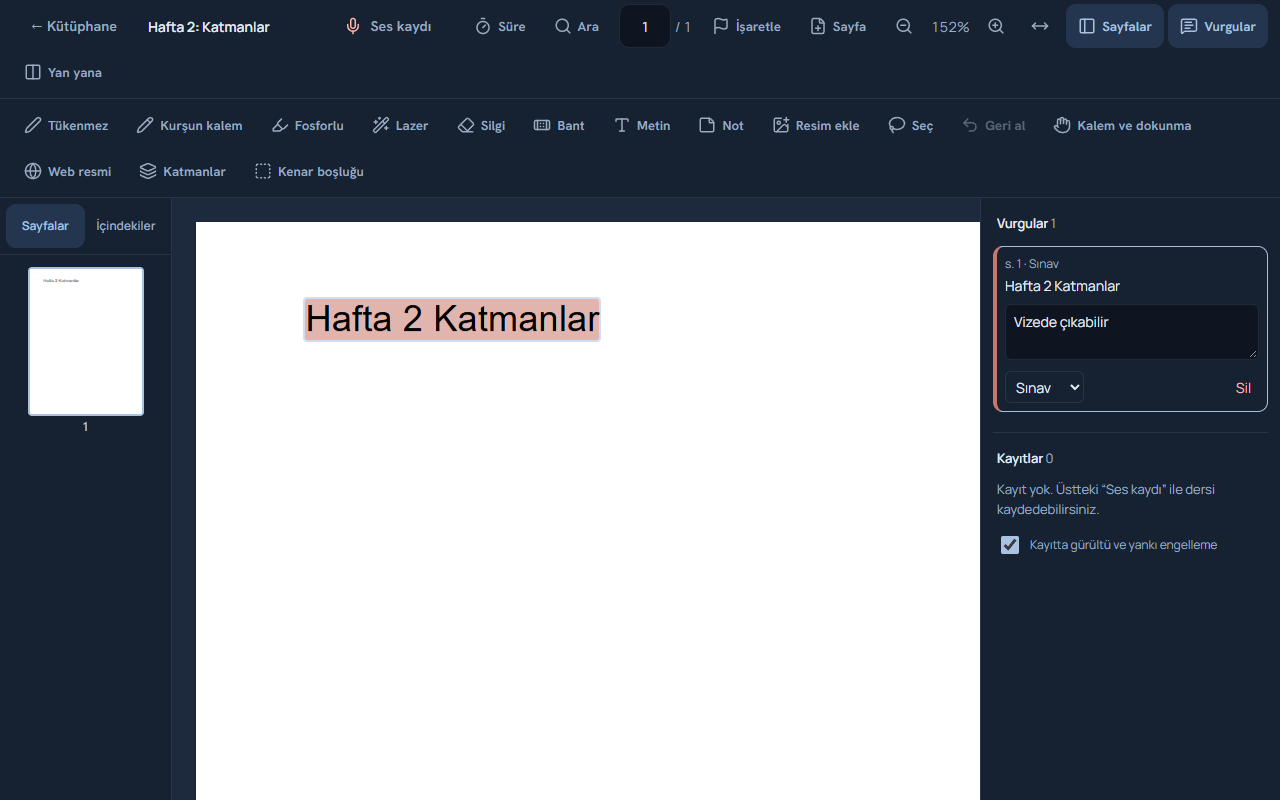
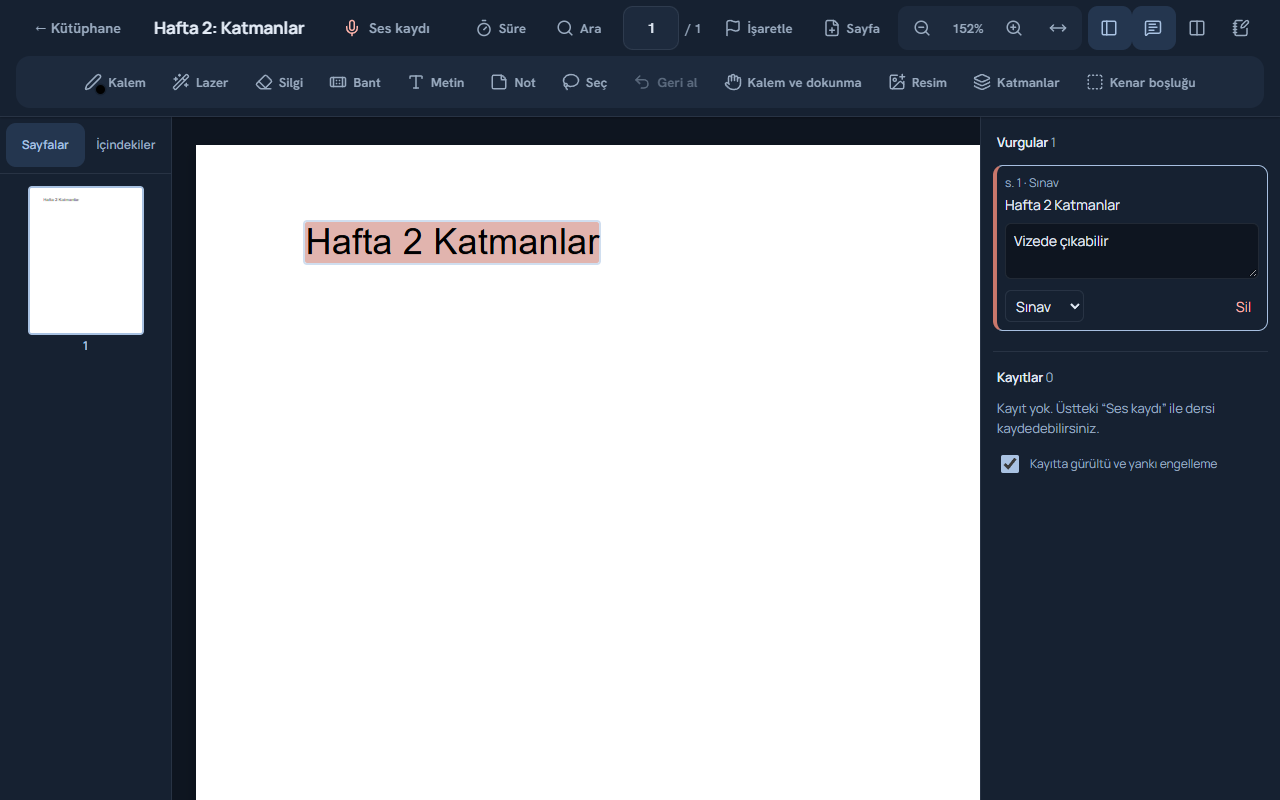
feat(ui): reader toolbar dock, notebook and timer panels in the new style; phone screenshots

diff --git a/src/ui/views/ReaderView.svelte b/src/ui/views/ReaderView.svelte
@@ -370,12 +370,13 @@
         <ToolButton label="Önemli sayfalar ({importantCount})" title="Yalnız önemli sayfalar, küçük bir PDF olarak" pressed={showImportant}
           onclick={() => (showImportant = !showImportant)}><Star size={18} /></ToolButton>
       {/if}
-      <div class="group">
+      <div class="group seg">
         <IconButton label="Uzaklaştır" onclick={() => (scale = zoomOut(scale))}><ZoomOut size={18} /></IconButton>
         <span class="zoom">{Math.round(scale * 100)}%</span>
         <IconButton label="Yakınlaştır" onclick={() => (scale = zoomIn(scale))}><ZoomIn size={18} /></IconButton>
         <IconButton label="Genişliğe sığdır" onclick={fitWidth}><MoveHorizontal size={18} /></IconButton>
       </div>
+      <div class="group panes">
       <ToolButton label="Sayfalar" title="Sayfalar ve içindekiler" pressed={showNav} onclick={() => (showNav = !showNav)}>
         <PanelLeft size={18} />
       </ToolButton>
@@ -387,6 +388,7 @@
         <ToolButton label="Defter" title="PDF'in yanında defter aç" pressed={notebookOpen} onclick={() => (notebookOpen = !notebookOpen)}>
           <NotebookPen size={18} /></ToolButton>
       {/if}
+      </div>
     </div>
     <div class="row tools" role="toolbar" aria-label="Kalem araçları">
       <PenMenu {reader} />
@@ -521,27 +523,39 @@
 
 <style>
   .reader { display: flex; flex-direction: column; height: 100%; }
-  .toolbar { display: flex; flex-direction: column; border-bottom: 1px solid var(--border); background: var(--surface); }
-  .row { display: flex; align-items: center; flex-wrap: wrap; gap: 2px 4px; padding: 4px 12px; }
+  .toolbar { display: flex; flex-direction: column; border-bottom: 1px solid var(--border); background: var(--surface); box-shadow: var(--shadow-1); position: relative; z-index: 2; }
+  .row { display: flex; align-items: center; flex-wrap: wrap; gap: 4px 6px; padding: 6px 16px; }
   .row + .row { border-top: 1px solid var(--border); }
-  h1 { flex: 1 1 120px; min-width: 80px; margin: 0 8px; font-size: 14px; font-weight: 600; overflow: hidden; text-overflow: ellipsis; white-space: nowrap; }
+  .row.tools {
+    border-top: 0; margin: 0 16px 8px; padding: 4px 6px; gap: 2px; background: var(--surface-2); border-radius: var(--radius);
+    justify-content: center;
+  }
+  h1 {
+    flex: 1 1 120px; min-width: 80px; margin: 0 8px; font-size: 17px; line-height: 24px; font-weight: 700; letter-spacing: -0.01em;
+    overflow: hidden; text-overflow: ellipsis; white-space: nowrap;
+  }
   .group { display: flex; align-items: center; }
-  .zoom { color: var(--text-2); font-variant-numeric: tabular-nums; min-width: 48px; text-align: center; }
+  .seg { padding: 0 2px; border-radius: var(--radius-sm); background: var(--surface-2); }
+  /* Pane toggles show icons only until there is room for their labels (names stay for screen readers). */
+  @media (max-width: 1599px) {
+    .panes :global(.tool > span) { position: absolute; width: 1px; height: 1px; overflow: hidden; clip-path: inset(50%); white-space: nowrap; }
+  }
+  .zoom { color: var(--text-2); font: 600 13px/1 var(--font-label); font-variant-numeric: tabular-nums; min-width: 48px; text-align: center; }
   .sr { position: absolute; width: 1px; height: 1px; overflow: hidden; clip-path: inset(50%); white-space: nowrap; }
-  .page-box { display: flex; align-items: center; gap: 4px; color: var(--text-2); font-variant-numeric: tabular-nums; margin: 0 4px; }
+  .page-box { display: flex; align-items: center; gap: 6px; color: var(--text-2); font: 600 13px/1 var(--font-label); font-variant-numeric: tabular-nums; margin: 0 4px; }
   .page-input {
-    width: 52px; height: var(--hit); text-align: center; font: inherit; color: var(--text); background: var(--bg);
+    width: 56px; height: var(--hit); text-align: center; font: 600 14px/1 var(--font-label); color: var(--text); background: var(--surface-2);
     border: 1px solid var(--border); border-radius: var(--radius-sm);
   }
   .sep { width: 1px; height: 24px; background: var(--border); margin: 0 6px; }
   .search input {
-    flex: 1 1 200px; max-width: 420px; height: var(--hit); padding: 0 10px; font: inherit; color: var(--text); background: var(--bg);
+    flex: 1 1 200px; max-width: 420px; height: var(--hit); padding: 0 12px; font: inherit; color: var(--text); background: var(--surface-2);
     border: 1px solid var(--border); border-radius: var(--radius-sm);
   }
   .count { min-width: 80px; color: var(--text-2); font-size: 13px; font-variant-numeric: tabular-nums; }
   .notice { color: var(--danger); font-size: 13px; }
   .body { flex: 1; display: flex; min-height: 0; position: relative; }
-  .scroller { flex: 1; overflow: auto; padding: 24px; background: var(--surface-2); touch-action: pan-x pan-y; }
+  .scroller { flex: 1; overflow: auto; padding: 28px 24px; background: var(--bg); touch-action: pan-x pan-y; }
   .msg { color: var(--text-2); text-align: center; margin-top: 40px; }
   .blanks { font-size: 12px; }
   .drop-blank {
@@ -555,7 +569,7 @@
   .slot.side :global(.page) { margin: 0 0 16px; }
   .picker {
     position: fixed; transform: translateX(-50%); z-index: 20; display: flex; gap: 2px; padding: 4px;
-    background: var(--surface); border: 1px solid var(--border); border-radius: var(--radius); box-shadow: 0 8px 28px rgb(0 0 0 / 0.16);
+    background: var(--surface); border: 1px solid var(--border); border-radius: var(--radius); box-shadow: var(--shadow-3);
   }
   .picker button {
     min-height: var(--hit); padding: 0 10px; border: 0; border-radius: var(--radius-sm); background: transparent; cursor: pointer;
@@ -563,7 +577,7 @@
   }
   .picker button:hover { background: var(--surface-2); }
   .chip { width: 12px; height: 12px; border-radius: 50%; }
-  @media (max-width: 1023px) { .row { padding: 4px 8px; } }
+  @media (max-width: 1023px) { .row { padding: 4px 8px; } .row.tools { margin: 0 8px 6px; } }
   /* Tablet portrait: tool labels are read out but not shown, so the tool row stays on one or two lines. */
   @media (max-width: 900px) {
     .tools > :global(.tool > span), .tools > :global(.menu > .tool > span) { position: absolute; width: 1px; height: 1px; overflow: hidden; clip-path: inset(50%); white-space: nowrap; }

diff --git a/src/ui/views/TimerButton.svelte b/src/ui/views/TimerButton.svelte
@@ -77,34 +77,35 @@
   .timer { position: relative; flex: none; }
   .timer :global(.tool span) { font-variant-numeric: tabular-nums; }
   .panel {
-    position: absolute; top: calc(100% + 6px); right: 0; z-index: 20; width: 300px; display: grid; gap: 12px; padding: 12px;
-    background: var(--surface); border: 1px solid var(--border); border-radius: 12px; box-shadow: 0 12px 40px rgb(0 0 0 / 0.18);
+    position: absolute; top: calc(100% + 6px); right: 0; z-index: 30; width: 320px; display: grid; gap: 14px; padding: 16px;
+    background: var(--surface); border: 1px solid var(--border); border-radius: var(--radius-lg); box-shadow: var(--shadow-3);
   }
   .head { display: flex; align-items: center; gap: 8px; }
-  .tabs { display: flex; flex: 1; background: var(--surface-2); border-radius: var(--radius-sm); padding: 2px; }
+  .tabs { display: flex; flex: 1; background: var(--surface-3); border-radius: var(--radius-sm); padding: 4px; }
   .tabs button {
-    flex: 1; min-height: 36px; border: 0; border-radius: 6px; background: transparent; color: var(--text-2); cursor: pointer;
+    flex: 1; min-height: 36px; border: 0; border-radius: 8px; background: transparent; color: var(--text-2); cursor: pointer;
+    font: 600 13px/1 var(--font-label);
   }
-  .tabs button[aria-selected="true"] { background: var(--surface); color: var(--text); box-shadow: 0 1px 2px rgb(0 0 0 / 0.1); }
+  .tabs button[aria-selected="true"] { background: var(--surface); color: var(--accent-strong); box-shadow: var(--shadow-1); }
   .icon {
     width: var(--hit); height: var(--hit); flex: none; display: grid; place-items: center; border: 0; border-radius: 8px;
     background: transparent; color: var(--text-2); cursor: pointer;
   }
-  .big { font-size: 40px; font-weight: 600; text-align: center; font-variant-numeric: tabular-nums; line-height: 1.2; }
+  .big { font-size: 44px; font-weight: 700; letter-spacing: -0.02em; text-align: center; font-variant-numeric: tabular-nums; line-height: 1.2; }
   .row { display: flex; gap: 8px; }
   .row > * { flex: 1; }
   .main, .ghost, .chip {
     min-height: var(--hit); display: inline-flex; align-items: center; justify-content: center; gap: 6px; padding: 0 12px;
-    border-radius: var(--radius-sm); cursor: pointer; font: inherit; touch-action: manipulation;
+    border-radius: var(--radius-sm); cursor: pointer; font: 600 14px/1 var(--font-label); touch-action: manipulation;
   }
-  .main { border: 0; background: var(--accent); color: #fff; }
+  .main { border: 0; background: var(--accent-strong); color: var(--on-accent); }
   .ghost, .chip { border: 1px solid var(--border); background: var(--surface); color: var(--text); }
   .main:disabled, .ghost:disabled { opacity: 0.45; cursor: default; }
   .chips { display: flex; flex-wrap: wrap; gap: 8px; }
   .chip { flex: 1 0 calc(33% - 8px); }
   input {
     min-height: var(--hit); min-width: 0; padding: 0 10px; border: 1px solid var(--border); border-radius: var(--radius-sm);
-    background: var(--bg); color: var(--text); font: inherit;
+    background: var(--surface-2); color: var(--text); font: inherit;
   }
   .hint { margin: 0; color: var(--text-2); font-size: 13px; }
   @media (max-width: 600px) {

diff --git a/src/ui/views/NotebookPane.svelte b/src/ui/views/NotebookPane.svelte
@@ -134,19 +134,19 @@
 <style>
   .notebook {
     position: relative; flex: 0 0 auto; max-width: calc(100% - 200px); display: flex; flex-direction: column; min-height: 0;
-    border-left: 1px solid var(--border); background: var(--surface-2);
+    border-left: 1px solid var(--border); background: var(--bg);
   }
   .handle { position: absolute; left: -5px; top: 0; bottom: 0; width: 10px; cursor: col-resize; touch-action: none; z-index: 4; }
   .handle:hover, .handle:focus-visible { background: color-mix(in srgb, var(--accent) 30%, transparent); outline: 0; }
-  .bar { display: flex; align-items: center; gap: 4px; padding: 4px 8px 4px 12px; border-bottom: 1px solid var(--border); background: var(--surface); }
-  .title { font-weight: 600; font-size: 14px; }
-  .count { flex: 1; color: var(--text-2); font-size: 12px; }
+  .bar { display: flex; align-items: center; gap: 8px; padding: 6px 8px 6px 16px; border-bottom: 1px solid var(--border); background: var(--surface); }
+  .title { font-weight: 700; font-size: 16px; letter-spacing: -0.01em; }
+  .count { flex: 1; color: var(--text-2); font: 600 12px/1 var(--font-label); }
   .item { display: flex; align-items: center; gap: 10px; }
   .swatch { width: 28px; height: 28px; flex: none; border-radius: 4px; background-color: #fff; box-shadow: 0 0 0 1px var(--border); }
   .scroller { flex: 1; overflow: auto; padding: 16px; touch-action: pan-x pan-y; }
   .msg { color: var(--danger); text-align: center; }
-  .page { position: relative; margin: 0 auto; background-color: #fff; box-shadow: 0 1px 4px rgb(0 0 0 / 0.14); border-radius: 2px; }
-  .foot { display: flex; align-items: center; gap: 2px; margin: 4px auto 16px; color: var(--text-2); font-size: 12px; }
+  .page { position: relative; margin: 0 auto; background-color: #fff; box-shadow: var(--shadow-2); border-radius: 4px; }
+  .foot { display: flex; align-items: center; gap: 2px; margin: 6px auto 18px; color: var(--text-2); font: 600 12px/1 var(--font-label); }
   .foot span { flex: 1; }
   .mini {
     width: var(--hit); height: var(--hit); display: grid; place-items: center; border: 0; border-radius: var(--radius-sm); padding: 0;

diff --git a/src/ui/views/PenMenu.svelte b/src/ui/views/PenMenu.svelte
@@ -66,7 +66,7 @@
     background: transparent; cursor: pointer; position: relative; padding: 0; touch-action: manipulation;
   }
   .swatch span { width: 24px; height: 24px; border-radius: 50%; box-shadow: 0 0 0 1px var(--border); }
-  .swatch[aria-pressed="true"] span { box-shadow: 0 0 0 2px var(--surface), 0 0 0 4px var(--accent); }
+  .swatch[aria-pressed="true"] span { box-shadow: 0 0 0 2px var(--surface), 0 0 0 4px var(--accent-strong); }
   .swatch.custom span { background: conic-gradient(#e74c3c, #f1c40f, #2ecc71, #1abc9c, #3498db, #9b59b6, #e74c3c); }
   .swatch.custom input { position: absolute; inset: 0; opacity: 0; cursor: pointer; width: 100%; height: 100%; }
   .width { color: var(--text-2); }

diff --git a/src/ui/views/PdfPage.svelte b/src/ui/views/PdfPage.svelte
@@ -152,7 +152,7 @@
 </div>
 
 <style>
-  .page { position: relative; margin: 0 auto 16px; background: #fff; box-shadow: 0 1px 4px rgb(0 0 0 / 0.14); border-radius: 2px; }
+  .page { position: relative; margin: 0 auto 16px; background: #fff; box-shadow: var(--shadow-2); border-radius: 4px; }
   .sheet { position: absolute; left: 0; top: 0; }
   .grown .sheet { box-shadow: 1px 1px 0 var(--border); }
   canvas { position: absolute; inset: 0; width: 100%; height: 100%; }
